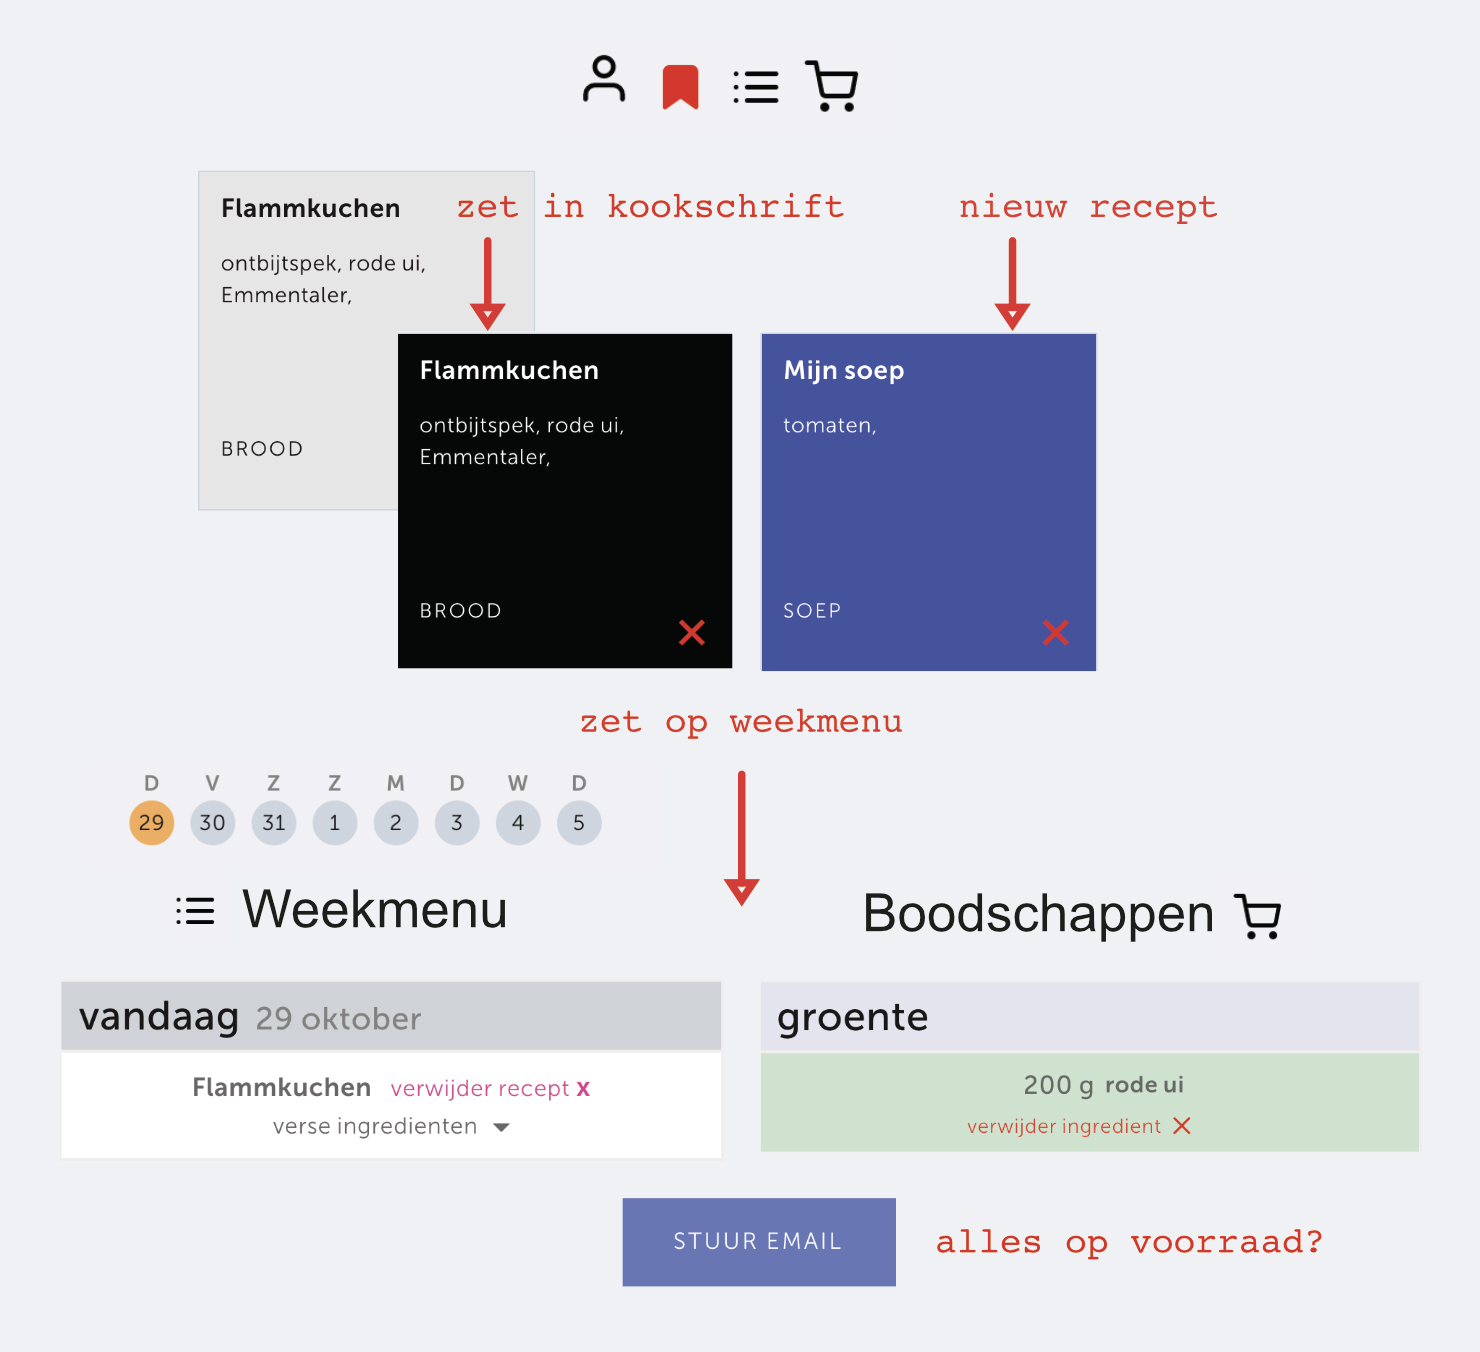
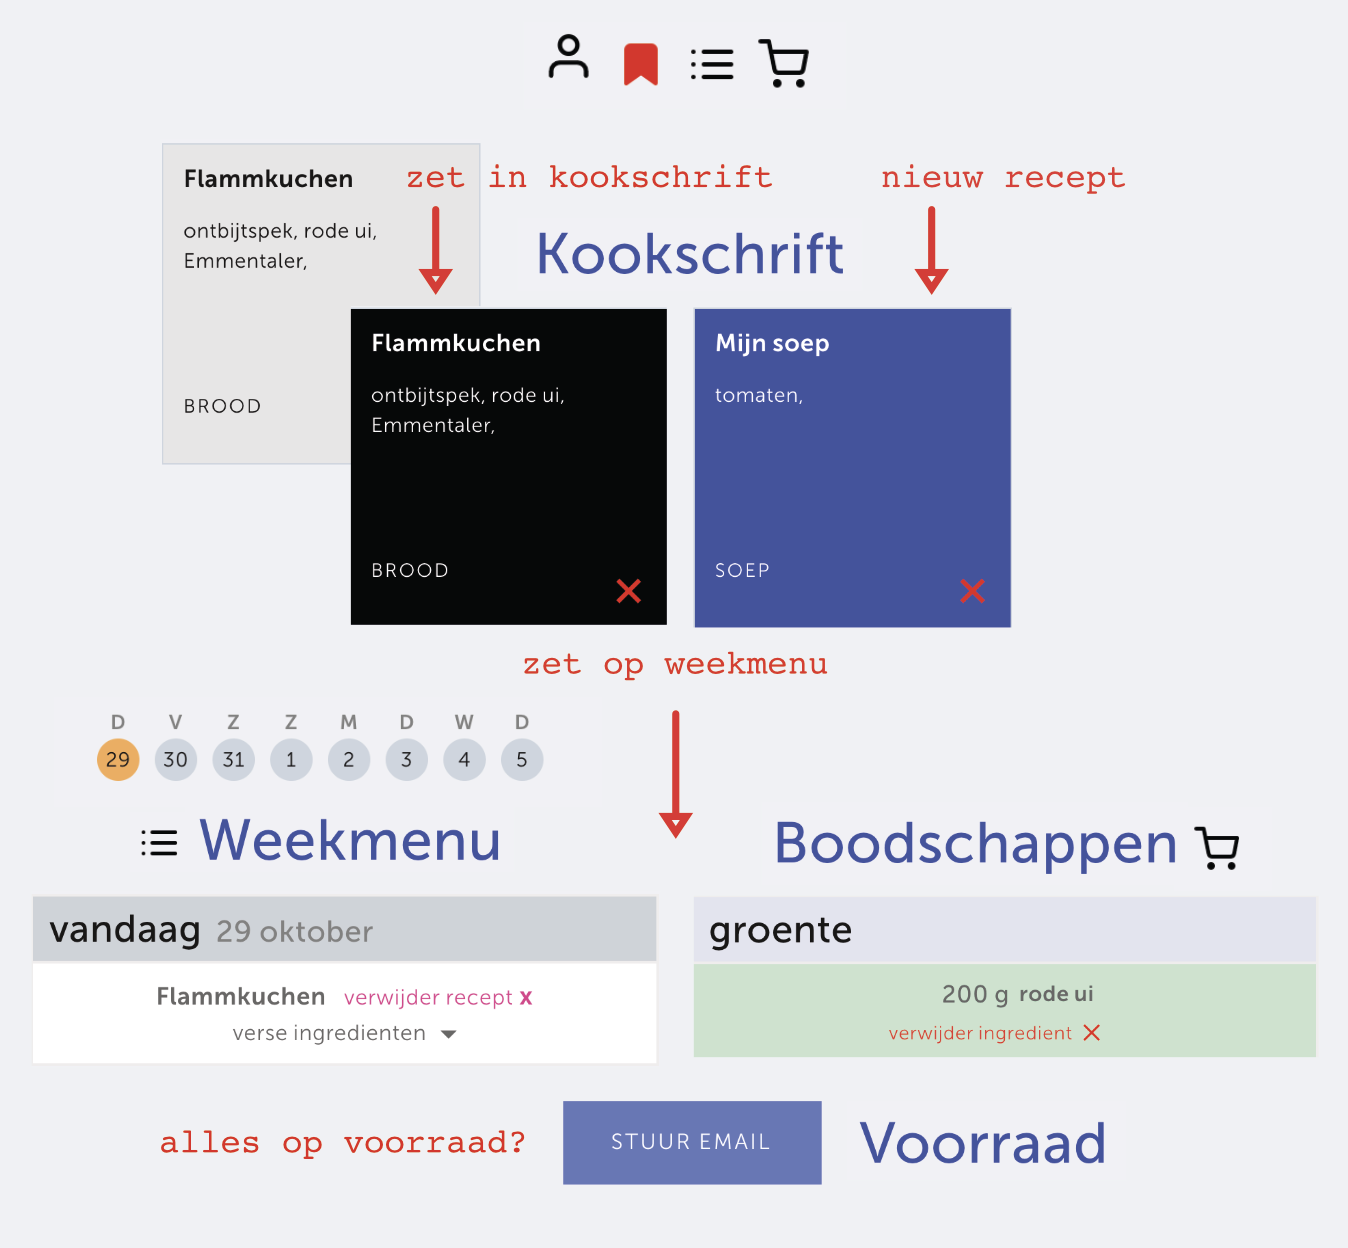
about

diff --git a/src/components/About/index.js b/src/components/About/index.js
@@ -28,18 +28,18 @@ De beschijving van de recepten is zo bondig mogelijk, maar tegelijkertijd heel p
 ## hoe **HetKookt** werkt
 
 Maak eerst een [account](/register) aan (je kan het op ieder moment weer verwijderen).
-1. Ga naar de [Recepten](/collections) van **HetKookt** en kies een recept, klik op de titel en zet in je kookschrift. Je kan zoeken op **Gerechten** of op **Ingrediënten**. Het is gesorteerd op het belangrijkste ingrediënt.
+1. Ga naar de [Recepten](/collections) van **HetKookt** en kies een recept, klik op de titel en zet in je kookschrift. Je kan zoeken op **Gerechten** of op **Ingrediënten**. 
 2. Of open meteen je [Kookschrift](/mijnrecepten) en maak zelf een nieuw recept.
 
 ![alt text](/img/schema.png "Hoe HetKookt werkt")
 
-3. Het gekozen of zelfgemaakte recept staat nu in je **Kookschrift**. Hier kan je het ook weer verwijderen.
-4. Klik in het [Kookschrift](/mijnrecepten) op de titel van een recept en je kunt aan de slag. Nu kan je het recept ook in het weekmenu zetten of aanpassen naar eigen inzicht.
-5. Het weekmenu loopt telkens van de huidige dag tot en met de dagen van de komende week. Totaal steeds acht dagen, genoeg voor een week verse boodschappen. Dus het recept dat je voor vandaag op het menu zet is morgen verdwenen, al blijft het wel op datum geregistreerd in je account. Als je op de datum klikt kom je in het **Weekmenu** terecht. Je kan een recept meerdere dagen op het menu zetten en ook meerdere recepten op een dag.
-6. De verse ingrediënten worden in het weekmenu getoond omdat ze automatisch bij de **Boodschappen** komen te staan. Hier kan je ze ook stuk voor stuk verwijderen mocht je het ingrediënt al in huis hebben.
-7. In **Boodschappen** worden de hoeveelheden van gelijke ingrediënten bij elkaar opgeteld en heb je nogmaals de kans om ze te verwijderen. In **Weekmenu** zijn ze op dat moment ook overal verwijderd. Daar heb je dan weer de mogelijkheid om per recept een vergissing te herstellen en het ingrediënt weer op de boodschappenlijst te zetten.
-8. In **Boodschappen** wordt de vraag gesteld "Is alles op voorraad?". We gaan er van uit dat bij jou alles op voorraad is, maar in **Voorraad** kan je controleren of dat voor de benodigde houdbare ingrediënten ook zo is.
-9. Als je op zoek gaat naar een nieuw recept zal je zien dat de reeds geselecteerde recepten in het zoekresultaat voor de overzichtelijkheid nu zwart zijn met een rode bookmark. Zo kan je een recept maar een keer selecteren voor het **Kookschrift**. Je eigen recepten zijn blauw.
+3. Het gekozen of zelfgemaakte recept staat nu in je [Kookschrift](/mijnrecepten). Hier kan je het ook weer verwijderen.
+4. Klik in het [Kookschrift](/mijnrecepten) op de titel van een recept en je kunt aan de slag. Nu kan je het recept ook in het [Weekmenu](/weekmenu) zetten of aanpassen naar eigen inzicht.
+5. Het [Weekmenu](/weekmenu) loopt telkens van de huidige dag tot en met de dagen van de komende week. Totaal steeds acht dagen, genoeg voor een week verse boodschappen. Dus het recept dat je voor vandaag op het menu zet is morgen verdwenen, al blijft het wel op datum geregistreerd in je account. Als je op de datum klikt kom je in het **Weekmenu** terecht. Je kan een recept meerdere dagen op het menu zetten en ook meerdere recepten op een dag.
+6. De verse ingrediënten worden in het [Weekmenu](/weekmenu) getoond omdat ze automatisch bij de [Boodschappen](/boodschappen) komen te staan. Hier kan je ze ook stuk voor stuk verwijderen mocht je het ingrediënt al in huis hebben.
+7. In [Boodschappen](/boodschappen) worden de hoeveelheden van gelijke ingrediënten bij elkaar opgeteld en heb je nogmaals de kans om ze te verwijderen. In [Weekmenu](/weekmenu) zijn ze op dat moment ook overal verwijderd. Daar heb je dan weer de mogelijkheid om per recept een vergissing te herstellen en het ingrediënt weer op de boodschappenlijst te zetten.
+8. In [Boodschappen](/boodschappen) wordt de vraag gesteld "Is alles op voorraad?". We gaan er van uit dat bij jou alles op voorraad is, maar in [Voorraad](/voorraad) kan je controleren of dat voor de benodigde houdbare ingrediënten ook zo is.
+9. Als je op zoek gaat naar een nieuw recept zal je zien dat de reeds geselecteerde recepten in het zoekresultaat voor de overzichtelijkheid nu zwart zijn met een rode bookmark. Zo kan je een recept maar een keer selecteren voor het [Kookschrift](/mijnrecepten). Je eigen recepten zijn blauw.
 
 ## aanvullingen en suggesties
 

diff --git a/src/components/Voorraad/index.js b/src/components/Voorraad/index.js
@@ -66,17 +66,20 @@ const Voorraad = ({ me, setMe, recipes, ...props }) => {
   return (
     <Fragment>
       <div className="container-y">
-        <h1 className="mt-70 lg:mt-48">
-          Voorraad{" "}
-          <span>
-            <Link
-              className="block lg:inline mt-10 lg:mt-0 lg:ml-10 text-18 text-indigo-600 hover:text-red-500"
-              to="/boodschappen"
-            >
-              Boodschappen >
-            </Link>
-          </span>
-        </h1>
+        <div className="flex justify-center">
+          <h1 className="kookschrift-title mb-36">
+            Voorraad{" "}
+            <span>
+              <Link
+                className="block lg:inline mt-10 lg:mt-0 lg:ml-10 text-18 text-indigo-600 hover:text-red-500"
+                to="/boodschappen"
+              >
+                Boodschappen >
+              </Link>
+            </span>
+          </h1>
+        </div>
+
         <div className="mb-18">
           Dit zijn de ingrediënten die op voorraad moeten zijn voor het
           weekmenu:
